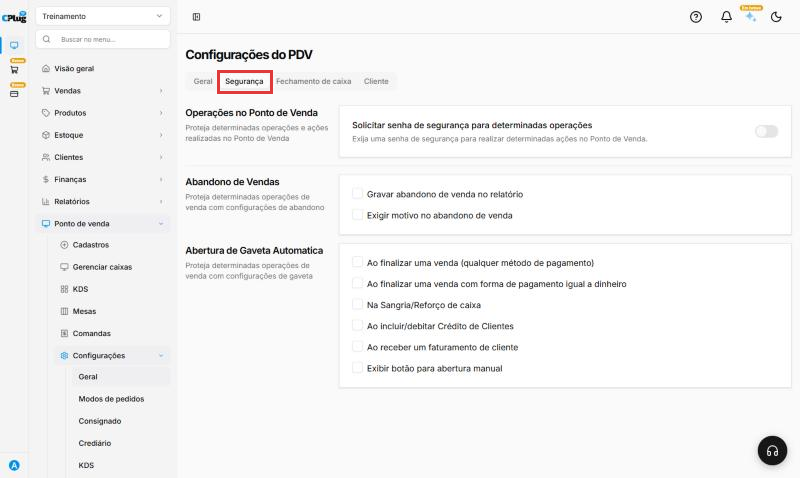
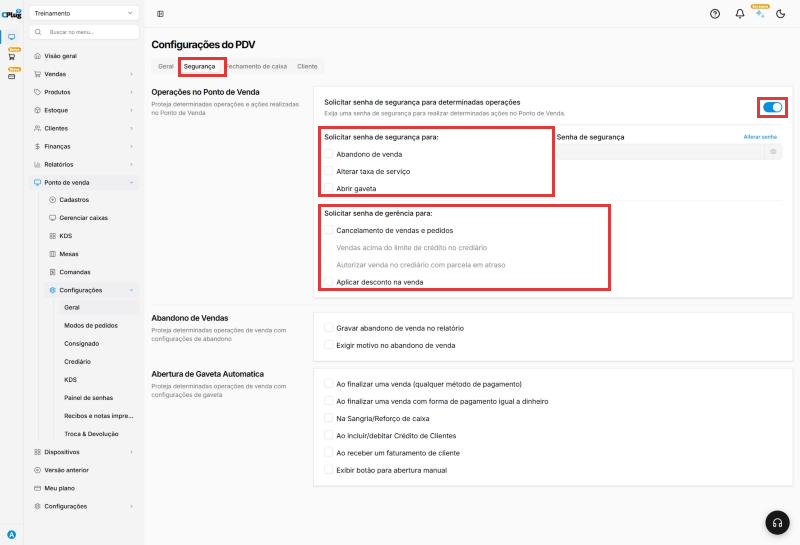
Manual 06.06: explicar cada configuração do PDV com base em testes

diff --git a/docs/ponto-de-venda/configurar-terminal.md b/docs/ponto-de-venda/configurar-terminal.md
@@ -1,6 +1,6 @@
 ---
 title: Como configurar o terminal de vendas
-description: Escolha como o caixa funciona no dia a dia, da venda no balcão ao delivery e ao atendimento de mesas e comandas.
+description: Entenda e ajuste cada opção do PDV, da venda no balcão ao fechamento do caixa, ao delivery e ao atendimento de mesas e comandas.
 codigo: "06.06"
 modulo: Ponto de venda
 tela: /dashboard/fisical-operations/terminal/general
@@ -9,124 +9,184 @@ atualizado: 2026-10-30
 
 # Como configurar o terminal de vendas
 
-<div class="cplug-meta" markdown>:material-clock-outline: 15 minutos · :material-format-list-numbered: 10 passos · :material-calendar-check: Atualizado em 30/10/2026</div>
+<div class="cplug-meta" markdown>:material-clock-outline: 20 minutos · :material-format-list-numbered: 11 passos · :material-calendar-check: Atualizado em 30/10/2026</div>
 
-As **configurações do PDV** decidem como o caixa funciona no dia a dia. Por exemplo: se o operador pode mudar o preço de um produto na hora da venda, se a loja cobra 10% de taxa de serviço ou se o caixa precisa de aprovação para ser fechado.
+As **configurações do PDV** decidem como o caixa funciona no dia a dia. Por exemplo: se o operador pode mudar o preço do X-Burger na hora da venda, se a loja cobra 10% de taxa de serviço nas mesas, se a gaveta abre sozinha quando o cliente paga em dinheiro ou quanto custa a entrega em cada bairro.
 
-As opções ficam em duas telas: **Geral**, com as regras de venda, segurança, fechamento de caixa e cliente, e **Modos de pedidos**, com o delivery e o atendimento de mesas e comandas.
+As opções ficam em duas telas, as duas dentro de **Ponto de venda** → **Configurações**:
 
-!!! warning "Antes de começar"
-    Essas opções mudam o funcionamento do caixa. Mude uma coisa de cada vez. Na dúvida sobre uma opção, deixe como está e fale com o suporte.
+- **Geral**, com as abas **Geral**, **Segurança**, **Fechamento de caixa** e **Cliente**;
+- **Modos de pedidos**, com o **Delivery** e o atendimento **No estabelecimento** (mesas e comandas).
 
-!!! info "Como salvar"
-    Ao mudar qualquer opção, aparece no rodapé a mensagem **Você tem alterações não salvas**, com os botões **Descartar alterações** e **Salvar**. Clique em **Salvar** antes de sair da tela. Para desfazer o que mudou, clique em **Descartar alterações**.
+Elas valem para todos os caixas da loja.
+
+!!! info "Antes de começar"
+    - Mude uma coisa de cada vez e confira se o caixa funciona como você espera.
+    - Ao mudar qualquer opção, aparece no rodapé **Você tem alterações não salvas**, com os botões **Descartar alterações** e **Salvar**. Clique em **Salvar** antes de sair da tela. Ao salvar, aparece **Configurações do PDV atualizadas com sucesso**.
+    - Os campos de **%** e de **R$** preenchem da direita para a esquerda: para 10,00, digite **1000**.
 
 Nos prints, o **quadrado vermelho** mostra onde você deve clicar ou digitar.
 
 <div class="passos" markdown>
 
-## Abra as configurações do PDV
+## Abra as configurações e ajuste as regras de venda
 
-No menu do lado esquerdo, clique em **Ponto de venda**, depois em **Configurações** e em **Geral**. A tela **Configurações do PDV** tem quatro abas: **Geral**, **Segurança**, **Fechamento de caixa** e **Cliente**.
+No menu do lado esquerdo, clique em **Ponto de venda**, depois em **Configurações** e em **Geral**. A tela **Configurações do PDV** abre na aba **Geral**.
 
-Na aba **Geral**, o bloco **Venda** reúne as regras do dia a dia. Marque o que a loja precisa:
+O bloco **Venda** reúne as regras do dia a dia:
 
-- **Permitir edição do preço de venda dos produtos:** o operador pode mudar o preço na hora da venda.
-- **Permitir edição de quantidade de produtos na venda:** o operador pode mudar a quantidade do item.
-- **Selecionar vendedor sempre que iniciar uma nova venda:** o PDV pede para escolher o vendedor a cada venda nova.
-- **Permitir abrir comanda ao iniciar venda balcão.**
-- **Exigir nome do cliente ao finalizar a venda.**
-- **Exigir número de autorização da operação com cartão nas vendas:** o operador informa o número de autorização do pagamento com cartão.
-- **Habilitar exibição de últimas vendas do cliente?**
-- **Vincular cliente à venda atual ao adicionar o CPF na nota:** se o CPF já estiver cadastrado, o cliente entra na venda sozinho.
-- **Permitir cancelamento de venda após tempo legal?:** a venda é cancelada no sistema, mas a nota fiscal continua válida na SEFAZ. Use com cuidado. Só funciona no PDV a partir da versão 2.11.15.
-- **Numeração de venda aleatória.**
-- **Limitar exibição de vendas no histórico do PDV:** quantas vendas aparecem no histórico do caixa (até 200).
+- **Permitir edição do preço de venda dos produtos:** o operador pode mudar o preço de um item na hora da venda. Desmarcado, vale sempre o preço do cadastro.
+- **Permitir edição de quantidade de produtos na venda:** o operador pode mudar a quantidade de um item já lançado. Já vem marcado.
+- **Selecionar vendedor sempre que iniciar uma nova venda:** a cada venda nova, o PDV pede para escolher o vendedor. Use quando você quer saber quem fez cada venda.
+- **Permitir abrir comanda ao iniciar venda balcão:** deixa o operador abrir uma comanda ao começar uma venda no balcão.
+- **Exigir nome do cliente ao finalizar a venda:** a venda só fecha com o nome do cliente. Útil para chamar o pedido pelo nome.
+- **Exigir número de autorização da operação com cartão nas vendas:** em pagamento com cartão, o operador digita o número de autorização que aparece no comprovante da maquininha.
+- **Habilitar exibição de últimas vendas do cliente?:** mostra no PDV as compras anteriores do cliente escolhido.
+- **Vincular cliente à venda atual ao adicionar o CPF na nota:** se o CPF digitado para a nota já for de um cliente cadastrado, o sistema liga a venda a esse cliente sozinho.
+- **Permitir cancelamento de venda após tempo legal?:** deixa cancelar a venda no sistema mesmo depois do prazo da SEFAZ. **Atenção:** nesse caso a nota fiscal continua válida na SEFAZ. Use com cuidado. Só funciona no PDV a partir da versão 2.11.15.
+- **Numeração de venda aleatória:** as vendas recebem números aleatórios em vez de 1, 2, 3...
+- **Limitar exibição de vendas no histórico do PDV:** quantas vendas aparecem no histórico do caixa (até 200). Desmarcado, não há limite.
 
 ![Menu Configurações com Geral destacado e as abas Geral, Segurança, Fechamento de caixa e Cliente destacadas](../imagens/06.06/01-geral.png){ loading=lazy }
 
-## Configure a taxa de serviço e os outros blocos da aba Geral
+## Configure taxa de serviço, balança, sangria e desconto
 
-Role a aba **Geral** para baixo:
+Role a aba **Geral** para baixo.
 
-- **Taxa de serviço:** marque **Habilitar taxa de serviço** e digite o percentual. O campo preenche da direita para a esquerda: para 10%, digite **1000** e confira se aparece **10,00**. Depois escolha se a taxa vale também para vendas no balcão e, no botão **Produtos**, quais produtos têm taxa.
-- **Habilitar código de barras gerado por balança:** para produtos vendidos por peso com etiqueta da balança. O botão **Produtos** configura o código de cada produto.
-- **Registros de caixa:** permite depósitos e retiradas (sangria) no caixa, avisa quando a retirada chega a um valor e imprime o comprovante da retirada ou do depósito.
-- **Desconto:** liga os descontos no PDV e define o tipo (fixo, aberto para alteração, por categoria de cliente), o valor máximo e se o desconto é **Em %** ou **Em R$**.
+**Taxa de serviço** (os "10% do garçom"):
+
+- Marque **Habilitar taxa de serviço** e digite o percentual. Para 10%, digite **1000**.
+- **Utilizar taxa de serviço para vendas no balcão:** cobra a taxa também nas vendas de balcão, não só no atendimento de mesas e comandas.
+- No botão **Produtos**, escolha quais produtos entram na taxa. A tela mostra quantos estão marcados, por exemplo "20 de 20 produtos selecionados".
+- É a mesma taxa que aparece em **Modos de pedidos**: mudar em um lugar muda no outro.
+
+**Habilitar código de barras gerado por balança:** para produtos pesados na balança que imprime etiqueta com código de barras. No botão **Produtos**, configure o código de cada produto.
+
+**Registros de caixa** (depósitos e retiradas, também chamados de reforço e sangria):
+
+- **Permitir depósitos e retiradas no caixa:** deixa o operador colocar ou tirar dinheiro do caixa durante o dia. Desligado, as opções abaixo somem.
+- **Alertar sobre valor de retirada/sangria do caixa:** digite um valor em R$. Quando o dinheiro no caixa chegar nele, o PDV avisa que é hora da sangria.
+- **Bloquear o Ponto de Venda ao alcançar o valor estipulado:** aparece quando o alerta está marcado. O PDV fica bloqueado até alguém fazer a sangria.
+- **Imprimir comprovante ao realizar retiradas e depósitos no caixa.**
+
+**Desconto:**
+
+- **Habilitar descontos no Ponto de Venda:** liga ou desliga os descontos no caixa.
+- **Desconto por categoria de cliente:** cada categoria de cliente pode ter um desconto. Escolha **Desconto aberto para alteração** (o operador pode mudar o desconto da categoria) ou **Desconto fixo** (o operador não muda).
+- **Habilitar valor máximo de desconto aplicado:** aparecem os campos **Desconto máximo na venda** e **Desconto máximo no Produto**. Exemplo: até R$ 20,00 na venda e até R$ 5,00 em cada produto.
+- **Tipo de desconto:** **Em %** ou **Em R$**.
 
 Clique em **Salvar** no rodapé.
 
-![Habilitar taxa de serviço marcado com 10,00 no campo de percentual e os botões Descartar alterações e Salvar destacados no rodapé](../imagens/06.06/05-barra-salvar.png){ loading=lazy }
+![Taxa de serviço habilitada com 10,00 e os botões Descartar alterações e Salvar destacados no rodapé](../imagens/06.06/05-barra-salvar.png){ loading=lazy }
 
-## Proteja operações na aba Segurança
+## Proteja operações com senha (aba Segurança)
 
-Clique na aba **Segurança**:
+Clique na aba **Segurança**.
 
-- **Solicitar senha de segurança para determinadas operações:** pede uma senha para algumas ações no caixa.
-- **Abandono de Vendas:** grava no relatório as vendas abandonadas e, se quiser, exige o motivo.
-- **Abertura de Gaveta Automatica:** escolha quando a gaveta do dinheiro abre sozinha. Por exemplo, ao finalizar uma venda em dinheiro ou na sangria. A última opção mostra um botão para abrir a gaveta na mão.
+Ligue **Solicitar senha de segurança para determinadas operações** para pedir senha em algumas ações do caixa. Aparecem duas listas:
 
-![Aba Segurança destacada, com as opções de senha, abandono de vendas e abertura de gaveta](../imagens/06.06/02-seguranca.png){ loading=lazy }
+- **Solicitar senha de segurança para:** **Abandono de venda**, **Alterar taxa de serviço** e **Abrir gaveta**. A senha é cadastrada no campo **Senha de segurança**, em **Alterar senha**.
+- **Solicitar senha de gerência para:** **Cancelamento de vendas e pedidos**, **Aplicar desconto na venda** e duas opções do crediário (venda acima do limite de crédito e venda com parcela em atraso). As opções do crediário ficam cinza enquanto o crediário não está ligado.
+
+**Abandono de Vendas** (quando o operador desiste de uma venda já começada):
+
+- **Gravar abandono de venda no relatório:** a venda abandonada fica registrada para consulta.
+- **Exigir motivo no abandono de venda:** o operador precisa dizer por que desistiu.
+
+**Abertura de Gaveta Automatica:** quando a gaveta do dinheiro abre sozinha.
+
+- **Ao finalizar uma venda (qualquer método de pagamento)** ou **Ao finalizar uma venda com forma de pagamento igual a dinheiro**. Escolha uma das duas: marcar uma desmarca a outra.
+- **Na Sangria/Reforço de caixa**, **Ao incluir/debitar Crédito de Clientes** e **Ao receber um faturamento de cliente** (quando o cliente paga uma conta que ficou em aberto).
+- **Exibir botão para abertura manual:** mostra no PDV um botão para abrir a gaveta.
+
+![Aba Segurança com a chave de senha ligada e as listas de senha de segurança e de gerência destacadas](../imagens/06.06/02-seguranca.png){ loading=lazy }
 
 ## Defina o fechamento de caixa
 
-Clique na aba **Fechamento de caixa**:
+Clique na aba **Fechamento de caixa**.
 
-- **Exigir aprovação para fechar o caixa:** o responsável revisa e confirma o fechamento.
+- **Exigir aprovação para fechar o caixa:** o fechamento só vale depois que um responsável revisa e confirma.
 - **Modelo de fechamento:** como os valores aparecem na conferência.
-    - **Formato Simples:** só Dinheiro, Cartão de crédito, Cartão de débito, Voucher e Outros.
-    - **Dinâmico por método de pagamento:** mostra as formas de pagamento usadas no caixa. Já vem marcado.
-    - **Dinâmico por bandeira de cartão:** separa os cartões por bandeira.
-- **Transferir valores automaticamente no fechamento:** o dinheiro do caixa vai para a conta escolhida ao fechar.
-- **Segurança:** conferir os valores antes de confirmar, informar quem fechou o caixa, esconder os resultados do caixa e bloquear o fechamento se houver pedidos em aberto.
+    - **Formato Simples:** sempre Dinheiro, Cartão de crédito, Cartão de débito, Voucher e Outros.
+    - **Dinâmico por método de pagamento:** só as formas de pagamento usadas naquele caixa. Já vem marcado.
+    - **Dinâmico por bandeira de cartão:** como o anterior, mas separa os cartões por bandeira (Visa, Master...).
+- **Transferir valores automaticamente no fechamento:** ao fechar o caixa, o dinheiro passa sozinho para outra conta. Escolha a **Conta bancária de destino** e o **Valor a permanecer no caixa**, que é o troco do dia seguinte. Exemplo: deixar R$ 100,00 e transferir o resto para "Banco do Brasil - Conta da loja".
+- **Conferir os valores registrados antes de confirmar o fechamento.**
+- **Informar o usuário que realizou o fechamento.**
+- **Não mostrar informações de resultados operacionais:** o fechamento não mostra nem imprime o detalhamento do caixa. Use quando não quer que o operador veja os totais antes de contar o dinheiro.
+- **Bloquear fechamento se houver pedidos em aberto:** escolha os tipos de pedido que impedem o fechamento: **Delivery & Retirada**, **Na mesa**, **Balcão** e **Consumo TAP**.
 
-![Aba Fechamento de caixa destacada, com os três modelos de fechamento](../imagens/06.06/03-fechamento.png){ loading=lazy }
+![Aba Fechamento de caixa com o modelo de fechamento, a transferência automática com conta e valor e o bloqueio por pedidos em aberto destacados](../imagens/06.06/03-fechamento.png){ loading=lazy }
 
 ## Libere o crédito de clientes
 
-Na aba **Cliente**, ligue **Permitir Crédito de clientes no Ponto de Venda** se a loja trabalha com crédito para os clientes.
+Clique na aba **Cliente** e ligue **Permitir Crédito de clientes no Ponto de Venda** se a loja guarda saldo para os clientes. Aparecem mais duas opções:
 
-![Aba Cliente destacada com a opção Permitir Crédito de clientes no Ponto de Venda](../imagens/06.06/04-cliente.png){ loading=lazy }
+- **Permitir valores negativos de crédito:** o cliente pode ficar com saldo devedor, o famoso "fiado".
+- **Imprimir recibo automaticamente o adicionar ou remover crédito de cliente.**
 
-## Abra os modos de pedidos
+![Aba Cliente com a chave de crédito de clientes ligada e as duas opções que aparecem destacadas](../imagens/06.06/04-cliente.png){ loading=lazy }
+
+## Ligue o delivery em Modos de pedidos
 
 No menu, em **Ponto de venda** → **Configurações**, clique em **Modos de pedidos**. A primeira parte é o **Delivery**.
 
 Ligue **Configurações de delivery no Ponto de Venda** se a loja faz entregas. Depois marque o que precisar:
 
-- **Exigir seleção de entregador:** ao mudar o pedido para "Saiu para entrega", o operador precisa escolher o entregador.
-- **Preencher DDD automaticamente ao cadastrar cliente nos pedido delivery:** digite o DDD da cidade no campo ao lado.
-- **Finalizar venda após a entrega.**
-- **Habilitar observações para os clientes** e **Habilitar observações para Delivery antes de finalizar a venda.**
-- **Numeração de venda separada para delivery.**
-- **Impressão do pedido de integração delivery:** em **Selecionar**, escolha a impressora.
+- **Exigir seleção de entregador:** ao mudar o pedido para "Saiu para entrega", o operador precisa escolher quem vai entregar.
+- **Preencher DDD automaticamente ao cadastrar cliente nos pedido delivery:** digite o DDD da sua cidade no campo ao lado (exemplo: 41), para o PDV preencher o DDD sozinho ao cadastrar um cliente no delivery. Desmarcado, o DDD fica em branco.
+- **Finalizar venda após a entrega:** libera a opção de finalizar a venda só depois que o pedido foi entregue. Exemplo: o cliente paga para o entregador.
+- **Habilitar observações para os clientes** e **Habilitar observações para Delivery antes de finalizar a venda:** campos para anotar detalhes, como "sem cebola" ou "portão azul".
+- **Numeração de venda separada para delivery:** as vendas de delivery têm uma sequência de números própria.
+- **Impressão do pedido de integração delivery:** em **Selecionar**, escolha a impressora dos pedidos que chegam por aplicativos de delivery integrados. Só funciona se a integração estiver configurada para **aceitar os pedidos automaticamente**.
 
 ![Menu Modos de pedidos destacado e a chave Configurações de delivery no Ponto de Venda ligada](../imagens/06.06/06-modos-delivery.png){ loading=lazy }
 
-## Escolha a taxa de entrega e os tempos
+## Escolha como cobrar a entrega
 
-- **Taxa de Entrega:** escolha **Taxa por bairro**, com um valor para cada bairro, ou **Taxa fixa**, o mesmo valor para todos os pedidos. Na taxa fixa, digite o valor no campo **R$**. Exemplo: R$ 5,00.
-- **Painel delivery:** quantos dias de pedidos aparecem no painel e o aviso de impressão dos pedidos agendados.
-- **Limites de Tempo:** em quantos minutos a entrega deve começar e terminar, e em quantos minutos a venda de retirada deve ser finalizada. Servem para alertar atrasos.
+Em **Taxa de Entrega**, escolha uma das formas:
 
-![Opções Taxa por bairro e Taxa fixa e o campo de valor da taxa fixa destacados](../imagens/06.06/07-taxa-entrega.png){ loading=lazy }
+- **Taxa fixa:** o mesmo valor para todos os pedidos. Digite o valor no campo **R$**.
+- **Taxa por bairro:** um valor para cada bairro. Clique em **Configurar bairros** para cadastrar os bairros e as taxas. Em **Defina uma taxa de entrega padrão**, escolha o que cobrar quando o bairro do cliente não está na lista: **Maior valor** (a maior taxa cadastrada) ou **Personalizado** (um valor que você digita, maior que zero).
 
-## Organize os status do delivery
+!!! warning "Confira a taxa de entrega sempre que salvar esta tela"
+    Nos testes, a tela **Modos de pedidos** abriu mostrando **Taxa fixa** mesmo com a taxa por bairro configurada. Ao salvar qualquer outra mudança nessa tela, a cobrança passou para **taxa fixa de R$ 0,00**. Se a sua loja usa taxa por bairro, confira essa parte antes de clicar em **Salvar**. Se ela mudar, fale com o suporte.
 
-Em **Status de delivery** ficam as etapas do pedido: preparo, envio e entrega. As abas **Abertos**, **Fechados** e **Cancelados** separam os status de cada fase.
+![Taxa por bairro selecionada, as opções Maior valor e Personalizado e o botão Configurar bairros destacados](../imagens/06.06/07-taxa-entrega.png){ loading=lazy }
 
-- Cada status tem **Nome**, **Tempo Limite** e **Status Padrão**.
-- **Novo**, **Em preparo** e **Pronto** são do sistema: dá para mudar o nome e o tempo, mas não o status padrão.
-- Para criar uma etapa, clique em **Novo status**. Exemplo: "Saiu para Entrega".
-- As setas do lado esquerdo servem para mudar a ordem. O **x** do lado direito apaga o status; nos status do sistema ele fica cinza.
+## Ajuste o painel, os tempos e as etapas do delivery
+
+- **Painel delivery:** **Limite de dias para exibição do delivery** (quantos dias de pedidos aparecem no painel) e **Aviso de impressão pedidos agendados por hora** (com quantas horas de antecedência o PDV avisa para imprimir um pedido agendado).
+- **Limites de Tempo:** em quantos minutos a entrega deve **começar**, em quantos minutos a venda de **delivery** deve ser finalizada e em quantos minutos a venda de **retirada** deve ser finalizada. Servem para o PDV alertar os atrasos.
+
+Em **Status de delivery** ficam as etapas do pedido, separadas em três abas:
+
+- **Abertos:** **Novo**, **Em preparo** e **Pronto** são do sistema. Você pode mudar o nome e o tempo limite, mas não o **Status Padrão**. Também dá para criar etapas suas, como "Saiu para Entrega".
+- **Fechados:** **Entregue**, que conclui o pedido.
+- **Cancelados:** veja o próximo passo.
+
+Para criar uma etapa, clique em **Novo status**. Aparece uma linha em branco para preencher **Nome**, **Tempo Limite** e **Status Padrão**. As setas do lado esquerdo mudam a ordem, e o **x** apaga a etapa (nas etapas do sistema ele fica cinza).
 
 ![Abas Abertos, Fechados e Cancelados e o botão Novo status destacados](../imagens/06.06/08-status-delivery.png){ loading=lazy }
+
+## Cadastre os motivos de cancelamento
+
+Na aba **Cancelados**, cada linha é um **motivo de cancelamento** do pedido. Exemplos: "Demora para Entregar", "Cancelado pelo cliente" e "Pedido Errado". Assim você sabe por que os pedidos foram cancelados.
+
+Para criar um motivo, clique em **Novo status**, digite o nome e escolha **Cancelado** em **Status Padrão**.
+
+![Aba Cancelados destacada com os motivos Demora para Entregar, Cancelado pelo cliente e Pedido Errado](../imagens/06.06/11-status-cancelados.png){ loading=lazy }
 
 ## Configure o atendimento no estabelecimento
 
 Mais abaixo fica **No estabelecimento**, para pedidos feitos e consumidos na loja.
 
-Ligue **Ponto de Venda oferece atendimento de mesa e comandas** se a loja atende em mesas ou com comandas. Logo abaixo aparecem **Mesas**, **Comandas** e a **Taxa de serviço**. Em **Balança**, clique em **Selecionar** para escolher a balança.
+Ligue **Ponto de Venda oferece atendimento de mesa e comandas** se a loja atende em mesas ou com comandas. Logo abaixo aparecem:
+
+- **Mesas** e **Comandas:** as formas de atendimento.
+- **Taxa de serviço:** mostra o percentual configurado. O link leva para a aba **Geral** (passo 2), onde a taxa é ligada e alterada.
+- **Balança:** em **Selecionar**, escolha a balança usada no atendimento.
 
 ![Chave de atendimento de mesa e comandas ligada, os botões Mesas e Comandas e a Taxa de serviço destacados](../imagens/06.06/09-estabelecimento.png){ loading=lazy }
 
@@ -134,12 +194,17 @@ Ligue **Ponto de Venda oferece atendimento de mesa e comandas** se a loja atende
 
 Em **Configurações de atendimento no Ponto de Venda**:
 
-- **Tela padrão ao abrir um novo atendimento:** **Mesas** ou **Comanda**.
-- **Modo de seleção do atendente/vendedor:** **Busca e listagem** ou **Teclado para digitar senha**.
-- **Utilizar código de produto no atendimento?** e **Utilizar código de barras no atendimento?:** **Sim** ou **Não**.
-- **Pedir código ao garçom:** **Sim** ou **Não**.
-- **Obrigatório informar motivo de cancelamento de item na comanda:** **Sim** ou **Não**.
-- Marque também, se precisar: exigir o cliente ao iniciar o atendimento, o status "Mesa aguardando liberação", o motivo para cancelar a comanda, imprimir produtos com valor zerado e **Imprimir resumo ao fechar conta**. Em **Ponto de impressão do resumo da conta**, clique em **Selecionar** e escolha a impressora.
+- **Tela padrão ao abrir um novo atendimento:** o PDV abre direto na tela de **Mesas** ou de **Comanda**. Escolha a que a loja mais usa.
+- **Modo de seleção do atendente/vendedor:** **Busca e listagem** (o garçom é escolhido numa lista) ou **Teclado para digitar senha** (o garçom digita a senha dele).
+- **Utilizar código de produto no atendimento?:** **Sim** para lançar itens digitando o código do produto.
+- **Utilizar código de barras no atendimento?:** **Sim** para lançar itens pelo leitor de código de barras.
+- **Pedir código ao garçom:** **Sim** para o PDV pedir o código do garçom no atendimento.
+- **Obrigatório informar motivo de cancelamento de item na comanda:** **Sim** para exigir o motivo ao tirar um item.
+- **Obrigatório selecionar cliente ao iniciar atendimento:** a mesa ou comanda só abre com um cliente escolhido.
+- **Habilitar status de "Mesa aguardando liberação":** ativa esse status para as mesas.
+- **Obrigatório informar motivo de cancelamento de comanda.**
+- **Imprimir produtos com valor zerado:** itens de R$ 0,00 (como um adicional grátis) também saem na impressão. Já vem marcado.
+- **Imprimir resumo ao fechar conta:** imprime o resumo da conta para o cliente conferir. Em **Ponto de impressão do resumo da conta**, clique em **Selecionar** e escolha a impressora.
 
 Clique em **Salvar** no rodapé.
 
@@ -154,15 +219,21 @@ Pronto! Antes de sair, confira o rodapé: se a mensagem **Você tem alterações
 ??? question "Digitei 10 na taxa de serviço e apareceu 0,10"
     O campo preenche da direita para a esquerda. Apague e digite **1000** para ter **10,00**.
 
+??? question "A taxa de entrega por bairro virou taxa fixa"
+    Isso aconteceu nos nossos testes ao salvar outras mudanças na tela **Modos de pedidos**. Fale com o suporte para corrigir e, enquanto isso, confira a **Taxa de Entrega** antes de clicar em **Salvar**.
+
+??? question "Apaguei um tempo limite e ele voltou"
+    Nos testes, apagar o número de **Limites de Tempo** ou do **Painel delivery** não limpou o valor salvo. Se precisar tirar um limite, fale com o suporte.
+
+??? question "As opções de crediário na aba Segurança estão cinza"
+    Elas só funcionam com o crediário ligado. Primeiro ligue o crediário em **Ponto de venda** → **Configurações** → **Crediário**.
+
 ??? question "Mudei uma opção e quero voltar atrás"
-    Se ainda não salvou, clique em **Descartar alterações** no rodapé. Se já salvou, desmarque a opção e clique em **Salvar** de novo.
+    Se ainda não salvou, clique em **Descartar alterações** no rodapé. Se já salvou, mude a opção de volta e clique em **Salvar** de novo.
 
 ??? question "A lista de impressoras está vazia"
     Nenhuma impressora foi cadastrada ainda. Cadastre a impressora em **Dispositivos** e volte a esta tela.
 
-??? question "Não sei qual modelo de fechamento escolher"
-    O **Dinâmico por método de pagamento** já vem marcado e mostra as formas de pagamento que o caixa usou. Na dúvida, mantenha esse.
+**Relacionados:** [Como cadastrar um ponto de venda](cadastrar-ponto-de-venda.md) · [Como cadastrar uma conta bancária](../financas/conta-bancaria.md) · [Como cadastrar formas de pagamento](../financas/formas-de-pagamento.md) · [Como escolher o tipo de nota emitida no PDV](../configuracoes/tipo-de-nota-no-pdv.md)
 
-**Relacionados:** [Como cadastrar um ponto de venda](cadastrar-ponto-de-venda.md) · [Como escolher o tipo de nota emitida no PDV](../configuracoes/tipo-de-nota-no-pdv.md) · [Como cadastrar formas de pagamento](../financas/formas-de-pagamento.md)
-
-<span class="palavras-chave">configurações do pdv terminal de vendas caixa taxa de serviço 10% garçom gorjeta desconto sangria retirada depósito gaveta senha abandono de venda fechamento de caixa crédito de cliente delivery entrega taxa de entrega taxa por bairro taxa fixa entregador status do pedido mesas comandas atendimento balança código de barras</span>
+<span class="palavras-chave">configurações do pdv terminal de vendas caixa editar preço quantidade vendedor nome do cliente autorização cartão cpf na nota cancelamento tempo legal numeração aleatória histórico taxa de serviço 10% garçom balança código de barras etiqueta sangria reforço retirada depósito alerta bloquear pdv desconto máximo categoria de cliente senha de segurança senha de gerência abandono de venda gaveta automática fechamento de caixa aprovação modelo de fechamento bandeira transferência automática troco fechamento às cegas crédito de cliente fiado saldo negativo delivery entregador ddd observações numeração separada integração ifood taxa de entrega taxa por bairro taxa fixa configurar bairros painel delivery agendado tempo limite status do pedido motivo de cancelamento mesas comandas atendimento tela padrão senha do garçom resumo da conta</span>
